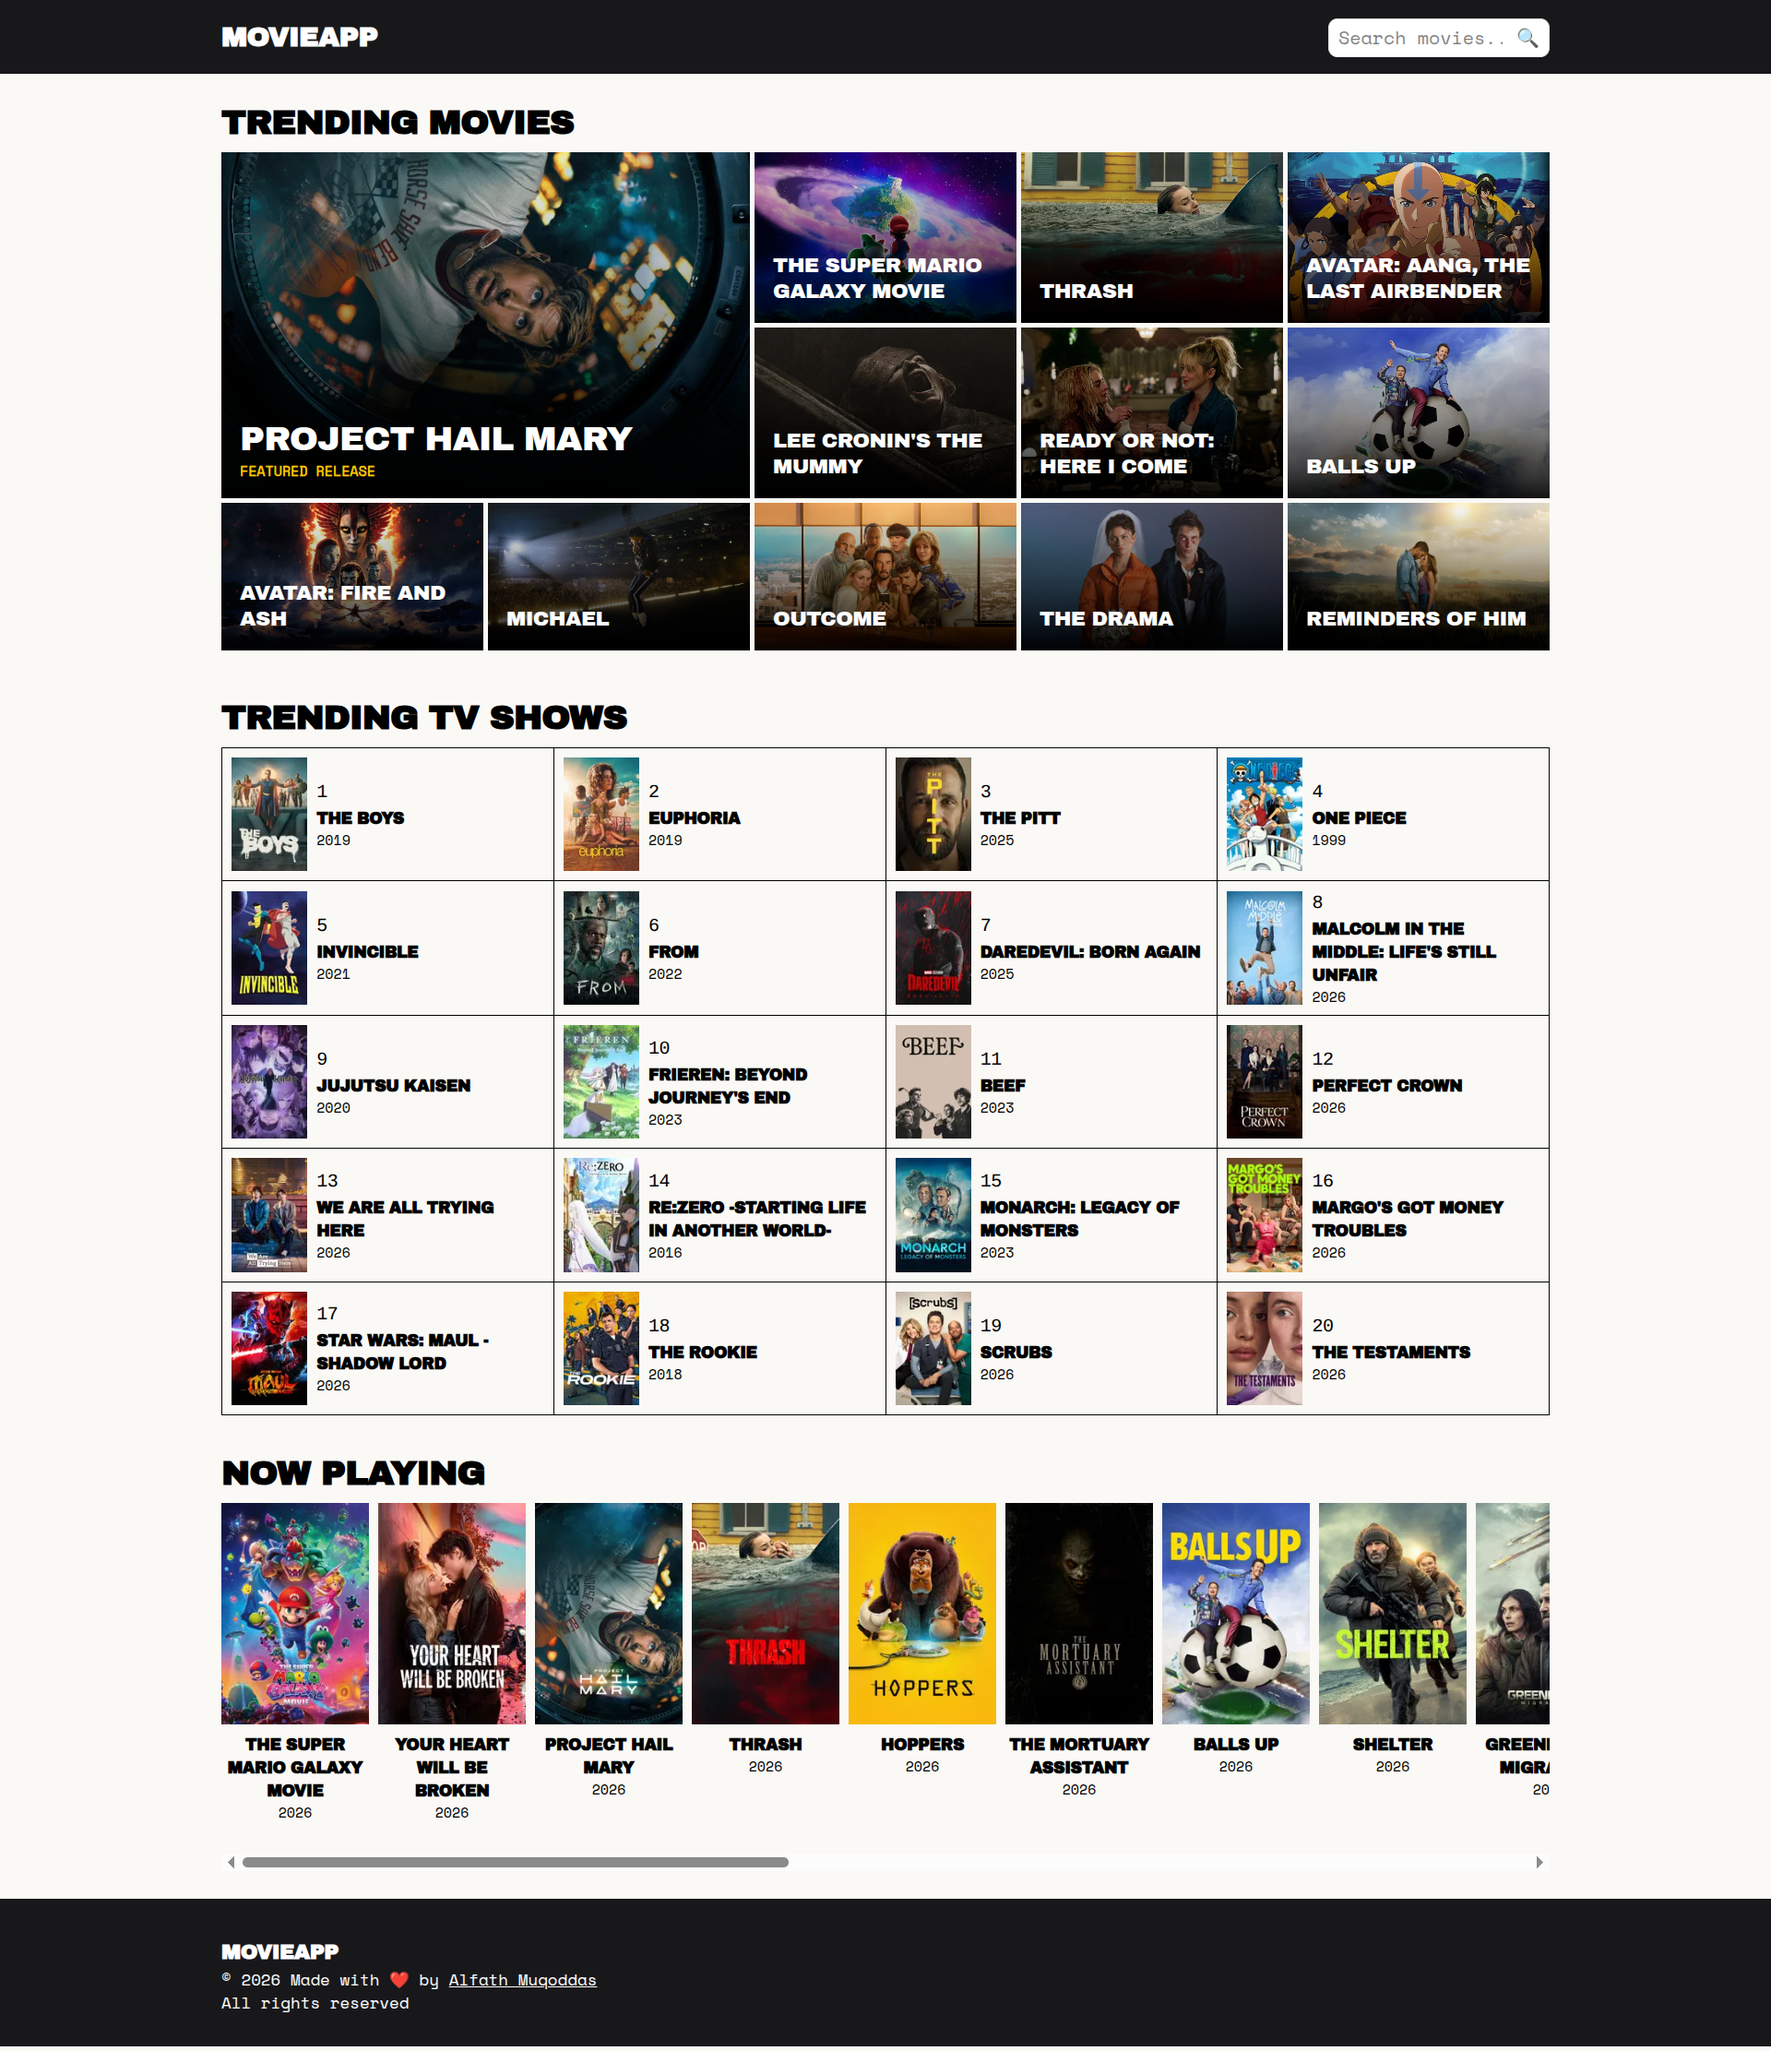
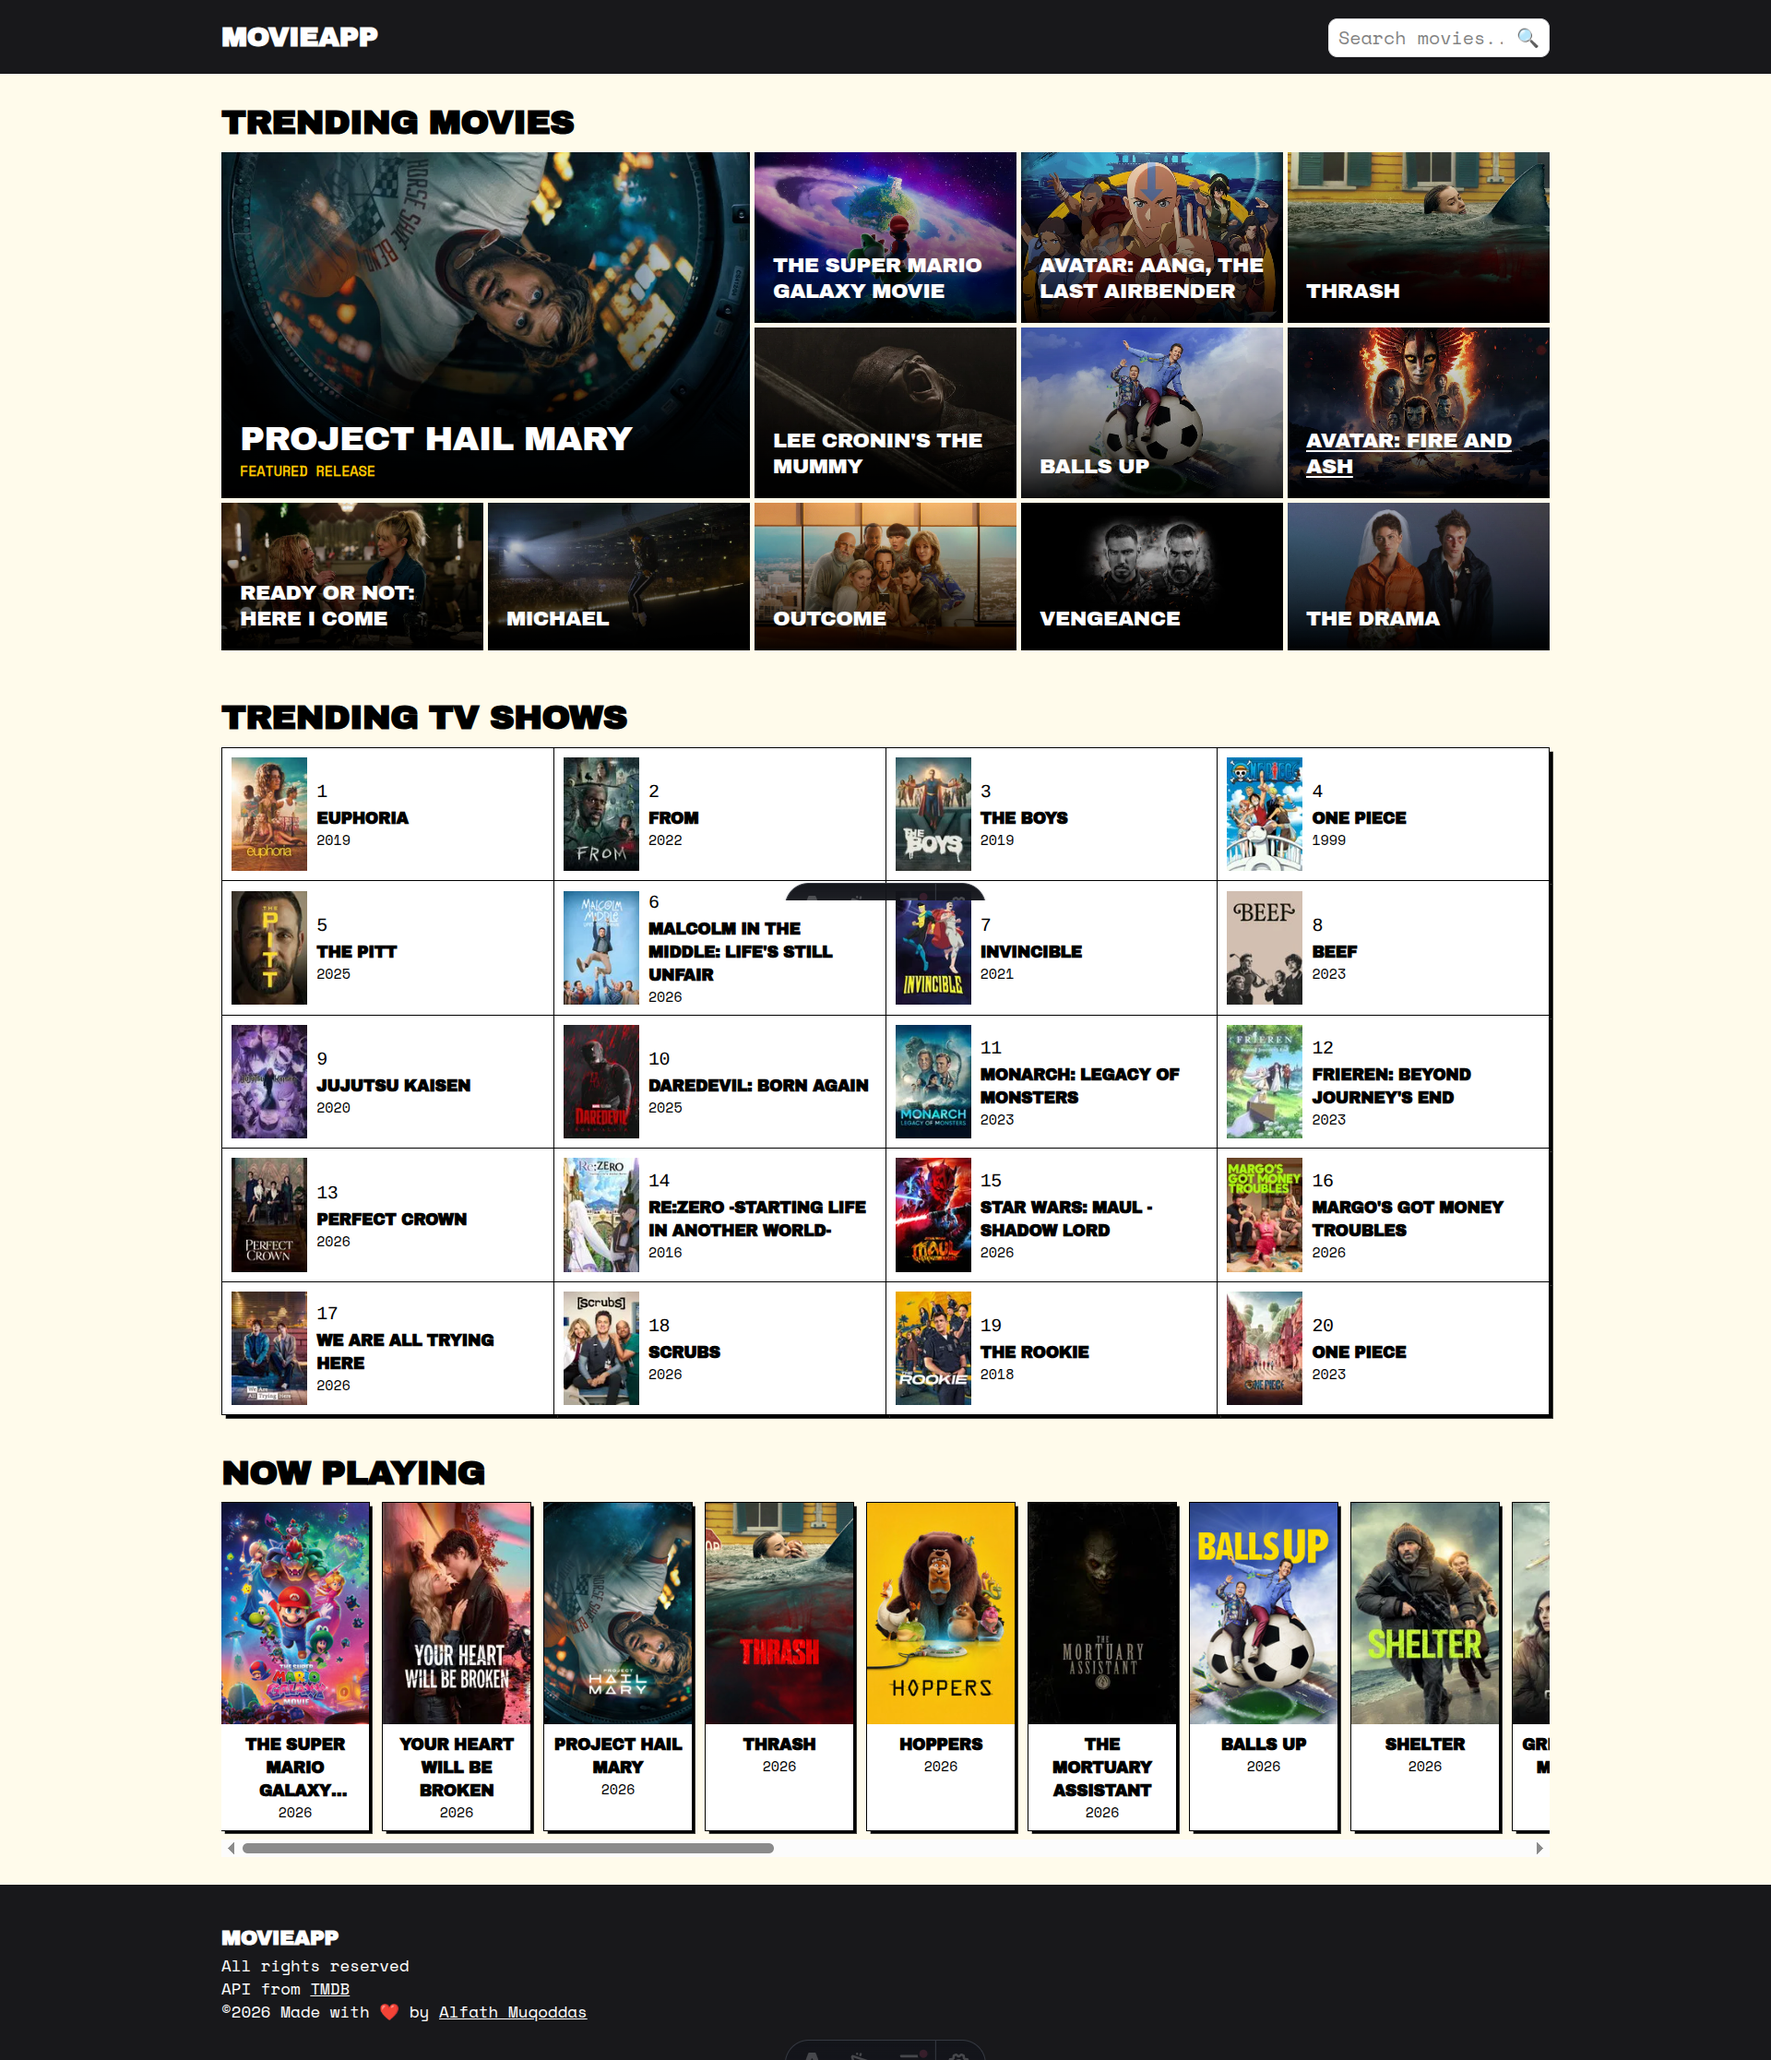
update: enchance the neo-brutalism design look, update the screenshot

diff --git a/src/styles/global.css b/src/styles/global.css
@@ -10,7 +10,7 @@
 
 @layer base {
   body {
-    @apply bg-[#FAF9F6];
+    @apply bg-amber-50;
   }
 
   h1,
